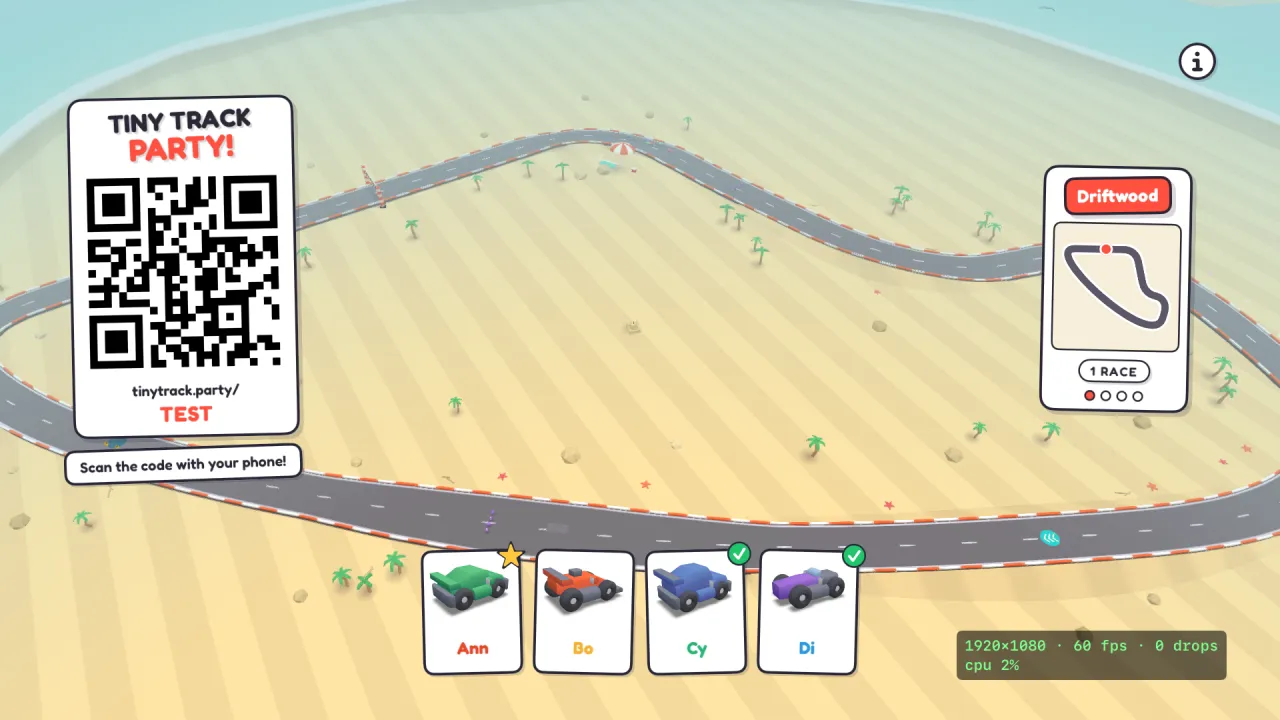
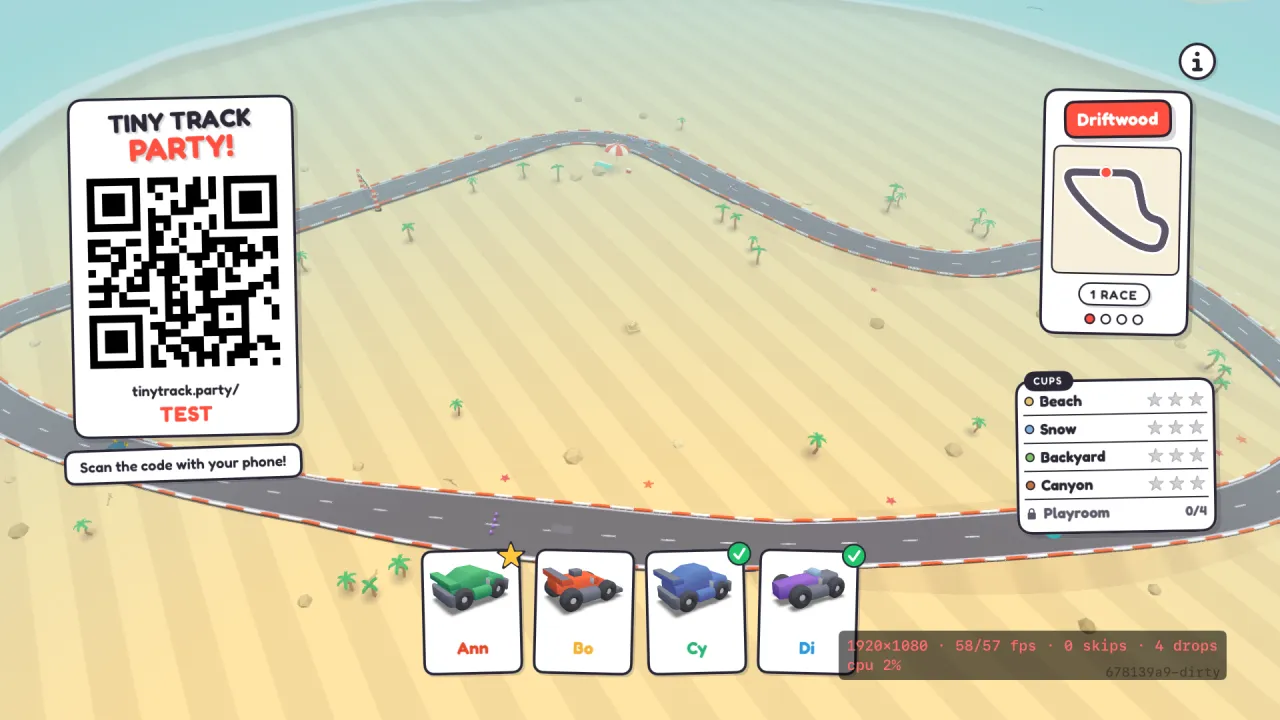
feat(tvos): show the couch its cups, so the stars exist somewhere it can see them
The tvOS shell already banked, persisted and published the progression record
correctly — it loaded the blob at boot, performed `persist-progression`, and
composed the snapshot's `progress` chooser — and still never drew a single
star. The reward arc existed only on the phones, which is not where anyone in
the room is looking during a lobby.

The lobby's right rail is now a rail: the pick hangs from the top, a "Cups"
shelf from the bottom. Four cups wear a colour dot and their star row, the
Playroom wears a padlock and its unlock count and recedes to `--ink-2` in
place. One sticker card of short-name rows rather than five pills, which is
the web's own finding — five outlines and five shadows read as five things
scattered down a corner.

Nothing here decides anything. Stars, the lock and the unlock counts are read
off `ttp_ui_catalogue_json`'s cup rows, derived in `ttp/progression.cc` before
the shell sees them, and the shelf refreshes at the two points the web's does
(boot, and after a bank) so the television and the phones read one catalogue.
The row colour is the catalogue's packed `color` rather than a sixth copy of
the authored table.

The `Spacer` between card and shelf is load-bearing: the pick is absent until
the host chooses, and a rail that distributed its children would park the lone
shelf mid-rail and drop it when the pick arrived. Pinned, the shelf never
moves — which is what the two re-captured device shots show.
[…]

diff --git a/shells/tvos/TinyTrackParty/Screens/LobbyView.swift b/shells/tvos/TinyTrackParty/Screens/LobbyView.swift
@@ -157,14 +157,47 @@ struct LobbyView: View {
             // instead.
             JoinTicket(joinURL: state.joinURL, roomCode: state.roomCode, qr: state.joinQR)
             Spacer(minLength: 0)
+            raceRail
+        }
+        .frame(maxHeight: .infinity)
+    }
+
+    /// Tonight's race over the long game: the pick hangs from the TOP of the
+    /// rail, the cups shelf from the BOTTOM.
+    ///
+    /// The `Spacer` between them is `.cup-slot { margin-bottom: auto }`, and it
+    /// is load-bearing for the same reason the web spells it that way rather
+    /// than with `space-between`: the pick is ABSENT until the host chooses, and
+    /// a rail that distributed its children would park the lone shelf in the
+    /// middle of the rail and then drop it when the pick arrived. Pinned to the
+    /// bottom, the shelf never moves.
+    ///
+    /// The rail is framed once, here, so both cards share the width the metrics
+    /// authored for the right rail.
+    private var raceRail: some View {
+        VStack(spacing: 14) {
             // HIDDEN ENTIRELY pre-pick — not an empty card, not a placeholder.
             // The model answers null until the host has picked, and an empty
             // sticker would promise a card that has nothing to say.
             if let slot = state.cupSlot {
                 CupCard(slot: slot)
             }
+            Spacer(minLength: 0)
+            // Also hidden when empty, but for a different reason: an empty
+            // catalogue means boot has not read one yet, and an outlined card
+            // with no rows in it is a blank slab of paper.
+            if !state.cups.isEmpty {
+                CupShelf(cups: state.cups)
+            }
         }
-        .frame(maxHeight: .infinity)
+        .frame(width: LobbyViewMetrics.cupWidth)
+        // CLEAR THE ⓘ. The badge floats in `infoBand`, a sibling of this whole
+        // stack, so nothing about layout keeps it off a card that now hangs from
+        // the top of the rail — photographed on the device, it sat on the pick
+        // card's corner. The web pads its race rail for exactly this
+        // (`.race-rail { padding-top: corner-top + corner-btn + 0.5rem }`,
+        // clearing the fixed mute/fullscreen row), and this is that padding.
+        .padding(.top, InfoGlyph.diameter + 10)
     }
 
     // THERE IS STILL NO START BUTTON ON THIS BOARD, and its absence is the
@@ -578,6 +611,140 @@ private struct QuestionTile: View {
         .clipShape(RoundedRectangle(cornerRadius: Sticker.radiusSmall, style: .continuous))
         .stickerOutline(Sticker.hairlineBorder, radius: Sticker.radiusSmall)
         .accessibilityHidden(true)   // the races pill counts the run in words
+    }
+}
+
+// MARK: - (b2) Cups shelf
+
+/// The couch's long game, under tonight's pick: one row per cup, wearing the
+/// stars it has earned and the padlock it has not opened.
+///
+/// **ONE CARD, NOT FIVE PILLS** — the web's own finding (`display.css`,
+/// `.cup-shelf`): five separate stickers with five outlines and five shadows
+/// read as five things scattered down the corner, and this is one thing. Rows
+/// are separated by a hairline rather than by air for the same reason.
+///
+/// Every number is `ttp_ui_catalogue_json`'s. The star thresholds and the unlock
+/// rule live in `libttp-runtime/ttp/progression.{h,cc}` and are DERIVED before
+/// this ever sees them, which is why there is no arithmetic in this file — a
+/// shell that counted its own stars would be a second answer to a question the
+/// phones' picker already asks the same engine.
+@MainActor
+private struct CupShelf: View {
+    let cups: [GameState.CupProgress]
+
+    var body: some View {
+        StickerCard(tint: Tokens.surface, rotation: 0, padding: 12) {
+            VStack(spacing: 0) {
+                ForEach(Array(cups.enumerated()), id: \.element.id) { i, cup in
+                    row(cup)
+                    // Between rows only: a trailing rule under the last one
+                    // would read as an empty sixth row (`:last-child { 0 }`).
+                    if i < cups.count - 1 {
+                        Rectangle().fill(Tokens.hairline).frame(height: 2)
+                    }
+                }
+            }
+        }
+        // The label rides the card's top-left corner like a sticker tab. A full
+        // label ROW is height this rail cannot spare — the web found that at
+        // 720p, where it pushed the fifth cup off the shelf.
+        .overlay(alignment: .topLeading) {
+            StickerPill(Copy.cupsShelf, size: 15).offset(x: 14, y: -13)
+        }
+        // The tilt is applied out here, not by `StickerCard`, so the label tab
+        // leans WITH the card instead of standing square against it.
+        .rotationEffect(.degrees(-1))
+    }
+
+    private func row(_ cup: GameState.CupProgress) -> some View {
+        HStack(spacing: 9) {
+            // A locked cup trades its colour dot for the padlock: it has no
+            // identity to advertise yet.
+            if cup.locked {
+                Image(systemName: "lock.fill")
+                    .font(.system(size: 17, weight: .bold))
+                    .foregroundStyle(Tokens.ink2)
+            } else {
+                Circle()
+                    .fill(Self.swatch(cup.color))
+                    .frame(width: 14, height: 14)
+                    .overlay(Circle().strokeBorder(Tokens.ink, lineWidth: 2))
+            }
+            Text(Self.shortName(cup.name))
+                .font(Fonts.display(23, weight: .bold))
+                // Locked RECEDES IN PLACE. It cannot take a sunken fill: inside
+                // one card that reads as a hole punched in the paper.
+                .foregroundStyle(cup.locked ? Tokens.ink2 : Tokens.ink)
+                .lineLimit(1)
+                .minimumScaleFactor(0.7)
+            Spacer(minLength: 6)
+            if cup.locked {
+                // The unlock bar, as a count. The RULE behind it is the phones'
+                // to explain (their locked detail panel spells it out); on the
+                // television it is a progress fact next to four cups that show
+                // stars, which is the same sentence said shorter.
+                Text("\(cup.unlockDone)/\(cup.unlockNeed)")
+                    .font(Fonts.display(20, weight: .bold))
+                    .foregroundStyle(Tokens.ink2)
+                    .accessibilityLabel(Copy.cupsLocked(done: cup.unlockDone, need: cup.unlockNeed))
+            } else {
+                StarRow(earned: cup.stars)
+            }
+        }
+        .padding(.vertical, 6)
+        .padding(.horizontal, 2)
+    }
+
+    /// Every row on this shelf is a cup, so " Cup" says nothing and the rail is
+    /// too narrow to spend the width on it. Presentation, not data — `GameState`
+    /// keeps the catalogue's real name.
+    private static func shortName(_ name: String) -> String {
+        name.hasSuffix(" Cup") ? String(name.dropLast(4)) : name
+    }
+
+    /// The catalogue's packed 0xRRGGBB, unmixed. `Schematic.wash` is the wrong
+    /// helper here: it mixes 26% of the cup into white for a schematic FIELD,
+    /// and a swatch that pale would not read as a colour at all.
+    private static func swatch(_ rgb: UInt32) -> Color {
+        Color(red: Double((rgb >> 16) & 0xFF) / 255,
+              green: Double((rgb >> 8) & 0xFF) / 255,
+              blue: Double(rgb & 0xFF) / 255)
+    }
+}
+
+/// Three die-cut stars, `earned` of them filled.
+///
+/// RED, never gold: amber is vetoed in chrome and celebration is red
+/// (`theme.css`, `.starrow .star`). The unearned ones are white at 0.35 — the
+/// CSS puts that opacity on the whole path, so the ink edge fades with the
+/// fill and an empty star stays a ghost rather than an outline.
+///
+/// The ink edge is a larger glyph behind a smaller one, the same trick the host
+/// star above uses, because SwiftUI has no symbol stroke.
+@MainActor
+private struct StarRow: View {
+    let earned: Int
+    static let total = 3
+
+    var body: some View {
+        HStack(spacing: 3) {
+            ForEach(0..<Self.total, id: \.self) { i in star(filled: i < earned) }
+        }
+        .accessibilityElement(children: .ignore)
+        .accessibilityLabel(Copy.stars(earned: earned, of: Self.total))
+    }
+
+    private func star(filled: Bool) -> some View {
+        ZStack {
+            Image(systemName: "star.fill")
+                .font(.system(size: 21))
+                .foregroundStyle(Tokens.ink)
+            Image(systemName: "star.fill")
+                .font(.system(size: 15))
+                .foregroundStyle(filled ? Tokens.red : .white)
+        }
+        .opacity(filled ? 1 : 0.35)
     }
 }
 

diff --git a/shells/tvos/TinyTrackParty/App/GameState.swift b/shells/tvos/TinyTrackParty/App/GameState.swift
@@ -103,6 +103,39 @@ final class GameState: ObservableObject {
         }
     }
 
+    /// `ttp_ui_catalogue_json`'s cup rows: the couch's long game, for the
+    /// lobby's "Cups" shelf.
+    ///
+    /// The progression on each row is DERIVED IN THE ENGINE off the blob
+    /// `ttp_ui_progress_load` was handed at boot. Nothing here re-derives a star
+    /// threshold or the unlock rule — that is the whole reason the catalogue
+    /// carries these fields rather than the raw record.
+    ///
+    /// Refreshed only where the record can have MOVED (boot and the
+    /// `persist-progression` performer), which is the web's rule for the same
+    /// shelf (`main.js refreshCupShelf`): the catalogue is otherwise a constant,
+    /// and re-reading it per lobby redraw would be a JSON parse per frame for an
+    /// answer that cannot have changed.
+    @Published var cups: [CupProgress] = []
+
+    struct CupProgress: Identifiable {
+        let id: String
+        /// The catalogue's full name ("Beach Cup"). The shelf shortens it — see
+        /// `CupShelf`, which owns that because it is a presentation choice about
+        /// a narrow rail, not a fact about the cup.
+        let name: String
+        /// Packed 0xRRGGBB, the catalogue's own. Read from the ABI rather than
+        /// from `Schematic.cupColor` so the shelf cannot drift from the shipped
+        /// table (that copy predates the field and is the same five values).
+        let color: UInt32
+        /// 0...3.
+        let stars: Int
+        let locked: Bool
+        /// Only meaningful while `locked` — how many cups of the bar are done.
+        let unlockDone: Int
+        let unlockNeed: Int
+    }
+
     // MARK: - The info board
 
     /// The lobby's navigation path: the info board and the license pages the
@@ -385,6 +418,23 @@ extension GameState.CupSlot {
         return GameState.CupSlot(nameKey: nameKey, name: name, racesKey: racesKey,
                                  raceCount: raceCount, difficulty: difficulty,
                                  maps: veil, cupId: cupId)
+    }
+}
+
+extension GameState.CupProgress {
+    /// One row of the catalogue's `cups` array.
+    ///
+    /// `unlockDone`/`unlockNeed` are only emitted on a LOCKED row, so both
+    /// default to 0 — the shelf reads them only under `locked` anyway, and an
+    /// optional pair would make every call site spell that rule again.
+    init(_ d: [String: Any]) {
+        self.init(id: d["id"] as? String ?? "",
+                  name: d["name"] as? String ?? "",
+                  color: UInt32(d["color"] as? Double ?? 0),
+                  stars: Int(d["stars"] as? Double ?? 0),
+                  locked: d["locked"] as? Bool ?? false,
+                  unlockDone: Int(d["unlockDone"] as? Double ?? 0),
+                  unlockNeed: Int(d["unlockNeed"] as? Double ?? 0))
     }
 }
 

diff --git a/shells/tvos/TinyTrackParty/App/GameCoordinator.swift b/shells/tvos/TinyTrackParty/App/GameCoordinator.swift
@@ -151,6 +151,10 @@ final class GameCoordinator: ObservableObject {
         // rule, NativeUiModel.js) — nothing stored loads a fresh couch.
         _ = ttp_ui_progress_load(UserDefaults.standard.string(forKey: Self.progressKey), 0)
         let catalogue = TTP.obj(ttp_ui_catalogue_json())
+        // The lobby's shelf, from the catalogue that was just stamped with the
+        // record above. A fresh couch is five zero-star rows and a locked
+        // Playroom, which is a shelf worth drawing — it states the goal.
+        refreshCupShelf(catalogue)
 
         // No `personas` key: absent asks for libttp-sim's own table (the single
         // source), so boot hands over nothing it read back.
@@ -312,6 +316,17 @@ final class GameCoordinator: ObservableObject {
         }]
     }
 
+    /// The lobby's "Cups" shelf, off the SAME stamped catalogue the chooser is
+    /// composed from — so the television and the phones cannot disagree about
+    /// how many stars the couch has.
+    ///
+    /// Takes the parsed catalogue rather than re-reading it: both callers have
+    /// already paid for that parse, and this is the web's `refreshCupShelf`
+    /// called at exactly its two points — boot, and the persist performer.
+    func refreshCupShelf(_ catalogue: [String: Any]) {
+        state.cups = (catalogue["cups"] as? [[String: Any]] ?? []).map(GameState.CupProgress.init)
+    }
+
     /// `persist-progression`: the walk banked a finished cup's stars; the shell
     /// writes the blob it was handed and recomposes the snapshot's progress
     /// chooser, so the phones' pickers carry the new stars when the party is
@@ -321,7 +336,11 @@ final class GameCoordinator: ObservableObject {
             UserDefaults.standard.set(TTP.json(p), forKey: Self.progressKey)
         }
         // The web's setChooser: the same configure, recomposed, republished.
+        // The catalogue is re-read because the BANK moved it — `ttp_ui_progress_load`
+        // holds the record inside the engine and every star on these rows is
+        // derived from it, so this is the one place the answer actually changes.
         let catalogue = TTP.obj(ttp_ui_catalogue_json())
+        refreshCupShelf(catalogue)
         requireOK(ttp_net_configure(TTP.json([
             "cars": chooserCars(),
             "colors": proto.carColors,

diff --git a/shells/tvos/TinyTrackParty/App/Copy.swift b/shells/tvos/TinyTrackParty/App/Copy.swift
@@ -176,6 +176,19 @@ enum Copy {
     /// the cups' difficulty order. (`NAME_COPY`, `main.js`.)
     static let worldTour = "World Tour"
 
+    /// The corner tab on the cups shelf. A tab, not a sentence: the five rows
+    /// under it say what they are.
+    static let cupsShelf = "Cups"
+    /// The shelf's star badge, spoken. Transcribed from `starRow`'s own
+    /// aria-label (`shared/trackPicker.js`) rather than invented, so the
+    /// television and the phones announce the same thing.
+    static func stars(earned: Int, of total: Int) -> String { "\(earned) of \(total) stars" }
+    /// A locked cup's unlock count, spoken. The bare "2/4" on screen is legible
+    /// beside four rows of stars; read aloud on its own it is not.
+    static func cupsLocked(done: Int, need: Int) -> String {
+        "locked, \(done) of \(need) cups finished"
+    }
+
     // MARK: - Info board
 
     /// The lobby's ⓘ, which is icon-only on screen — this is what a screen

diff --git a/docs/native-port/shells.md b/docs/native-port/shells.md
@@ -129,6 +129,13 @@ Three properties of that surface matter more than the list:
    (the web reference is `boot.js` `progressChooser()`). Stars, the Playroom
    lock and the unlock progress are all DERIVED in the wasm/lib — a shell that
    re-implements a threshold has copied a rule that will drift.
+   A FOURTH obligation, and the one those three do not imply: the lobby SHOWS
+   the record, as a cups shelf off `ttp_ui_catalogue_json`'s rows (web:
+   `refreshCupShelf`; tvOS: `CupShelf` in `LobbyView.swift`). A shell can bank,
+   persist and publish stars correctly and still never show the couch a single
+   one — the reward arc then exists only on the phones, which is where nobody
+   is looking. Refresh it where the record can MOVE and nowhere else: boot, and
+   the `persist-progression` performer.
    **The results board on a cup is TWO PHASES**, and a shell that paints only
    one of them has dropped the cup's whole story. `ttp_ui_results_view_json`
    answers `raceRows` (the race that just ended, finishing order, lap time +
